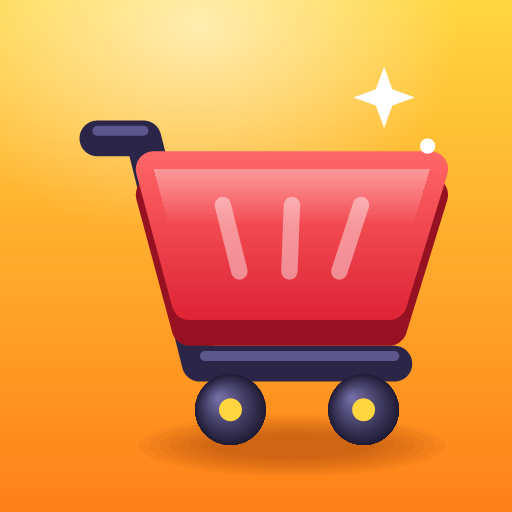
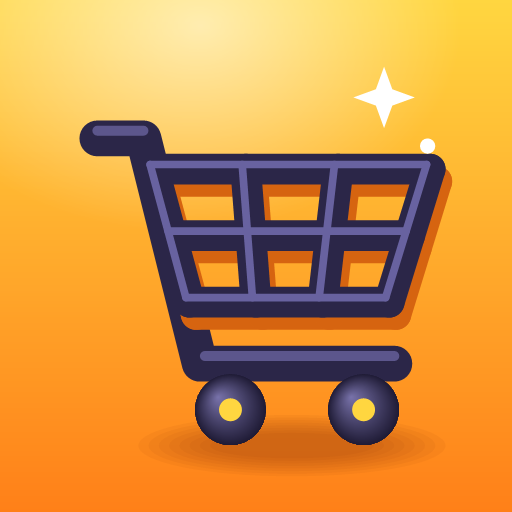
빈 장바구니(철망) 입체 아이콘으로 변경

Changed region(s): [[0.25, 0.2812, 0.9062, 0.6875]]

diff --git a/sw.js b/sw.js
@@ -1,6 +1,6 @@
 // 휴대폰 웹앱용 서비스 워커: 앱 설치를 가능하게 하고, 인터넷이 끊겨도 화면이 열리게 해요.
 // (크롬 확장 프로그램에서는 쓰이지 않아요)
-const CACHE = "rangi-v3";
+const CACHE = "rangi-v4";
 const FILES = ["generator.html", "app.webmanifest", "icons/icon-192.png", "icons/icon-512.png"];
 
 self.addEventListener("install", (e) => {
